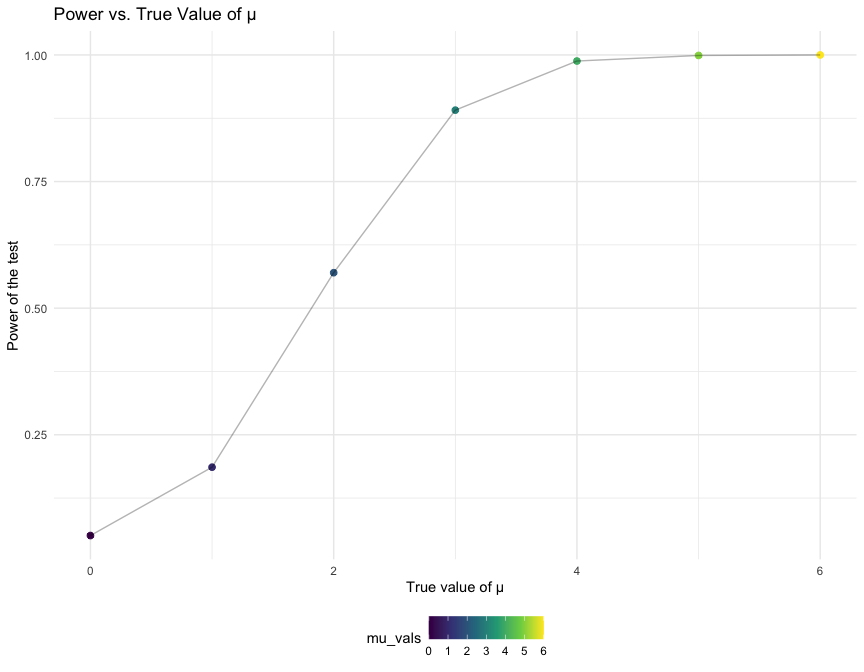
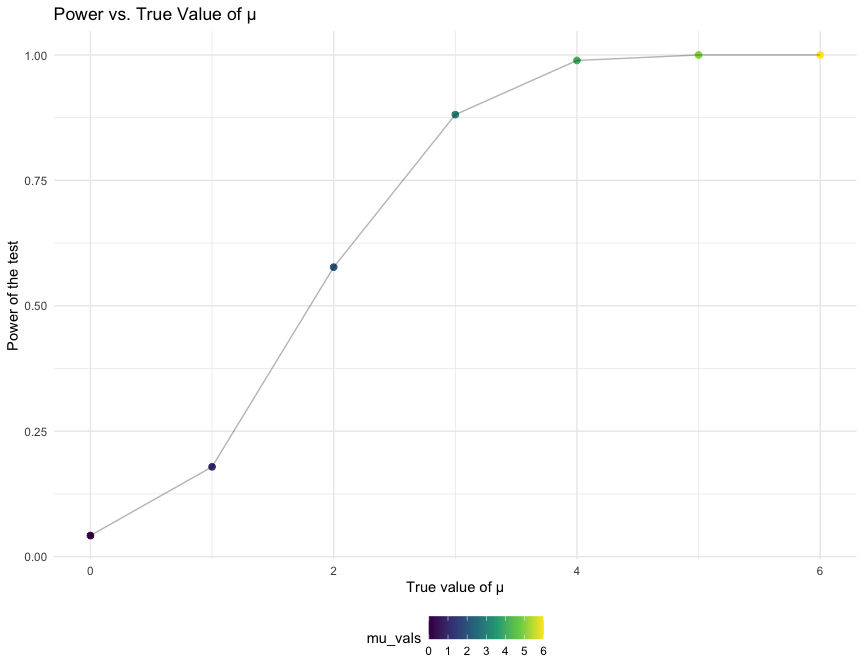
changes to the initial simulations, setup for final plot

diff --git a/p8105_hw5_kb3246.md b/p8105_hw5_kb3246.md
@@ -131,7 +131,8 @@ n = 30, σ = 5 and μ = 0.
 initial_sim = function(n = 30, sigma = 5, mu = 0) {
   x = rnorm(n, mean = mu, sd = sigma)
   t_test = t.test(x, conf.int = 0.95)%>%
-    broom::tidy()
+    broom::tidy()%>%
+    select(estimate,p.value)
   
     t_test
 }
@@ -142,14 +143,15 @@ initial_sim = function(n = 30, sigma = 5, mu = 0) {
 Now we want to generate 5000 datasets from the model.
 
 ``` r
+# Now we will repeat this process 5000 times 
+
 simulations = vector("list", 1000)
 for(i in 1:1000) {
   simulations[[i]]= initial_sim()
 }
 
 simulations = simulations %>%
-  bind_rows()%>%
-  head()
+  bind_rows()
 ```
 
 ## Repeating the simulation for any μ
@@ -164,31 +166,35 @@ sim_mu = function(set){
   }
   power_output = 
     mu_output%>%
-    bind_rows()%>%
-    janitor::clean_names() %>% 
-    select(estimate, p_value) %>% 
-    filter(p_value < 0.05) %>% 
-    count()
+    bind_rows()
+
+    #select(estimate, p_value) %>% 
+    #filter(p_value < 0.05) %>% 
+    #count()
   
   power_output
 }
 
 # For power of the test 
 
-test_power = 
+simulation_any_mu = 
   tibble(
     mu_vals = c(0,1,2,3,4,5,6), 
-    reject_count= map(mu_vals, sim_mu)
+    estimate_table= map(mu_vals, sim_mu)
   )%>% 
-  unnest(reject_count)%>%
-  mutate(power = n/1000)
+  unnest(estimate_table)%>%
+  mutate(
+    reject_status = ifelse(p.value < 0.05, TRUE, FALSE)
+    )
 ```
 
 ## Plot for power vs. true value of μ
 
 ``` r
 power_plot = 
-  test_power%>%
+  simulation_any_mu%>%
+  group_by(mu_vals)%>%
+  summarise(power= sum(reject_status)/1000)%>%
   ggplot(aes(x = mu_vals, y= power))+ 
   geom_point(aes(color = mu_vals), size = 2) +
   geom_line(alpha = 0.3) +
@@ -201,3 +207,30 @@ power_plot
 <img src="p8105_hw5_kb3246_files/figure-gfm/plotting power-1.png" width="95%" />
 
 ### Association between effect size and power
+
+From the plot, it is evident that power increases as μ increases.
+Therefore, we can conclude that as the effect size, which is the true
+value of μ increases, the power also increases.
+
+## Plot for average estimate of μ vs. true value of μ
+
+``` r
+all_estimates = 
+  simulation_any_mu%>%
+  group_by(mu_vals)%>% 
+  summarise(all_samp_mean = mean(estimate))
+
+reject_estimates =
+  simulation_any_mu%>%
+  group_by(mu_vals)%>% 
+  filter(reject_status==TRUE)%>%
+  summarise(reject_samp_mean = mean(estimate))
+
+combined_df= 
+  full_join(all_estimates, reject_estimates, by = "mu_vals")%>%
+  pivot_longer(
+    all_samp_mean:reject_samp_mean, 
+    names_to = "samples",
+    values_to = "avg_estimates"
+  )
+```
